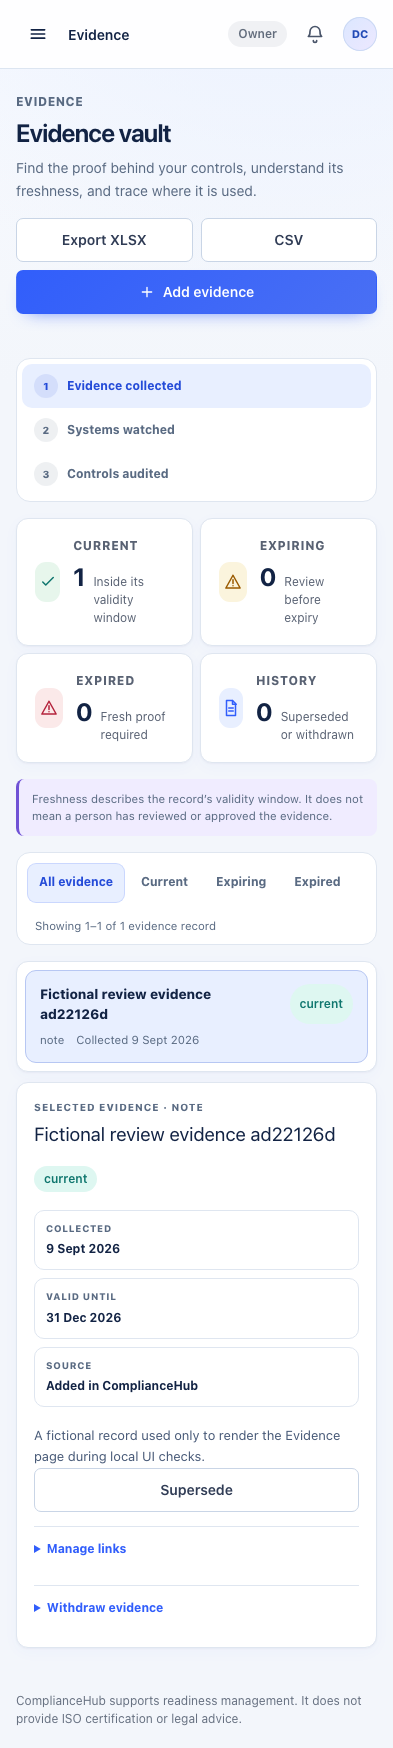
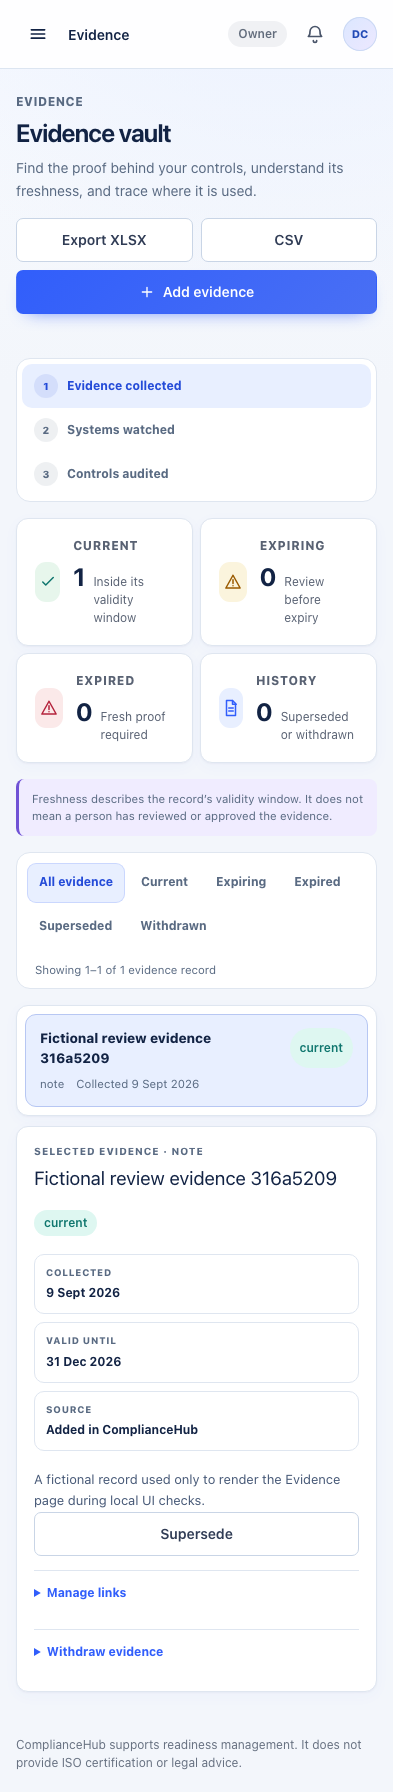
Finalize evidence vault verification

diff --git a/docs/release-checklist.md b/docs/release-checklist.md
@@ -2,7 +2,7 @@
 
 ## Start here — plain-language project status
 
-**Latest proof-to-audit Evidence vault refinement — 10 September 2026:** Evidence now works as a focused list-and-detail vault with truthful date-aware freshness, safe filters and pagination, complete source and linked-work context, and a responsive Evidence → Monitoring → Audits journey. Official GitHub evidence keeps its trusted provenance inside the normal evidence record; legacy records keep available references without pretending their collection identity is known. Adding evidence shows only the relevant source field, stale replacement links fail safely, and withdrawing requires a deliberate second step while preserving history. Focused unit and database tests, type checking, lint, production build, the full connected browser workflow, and desktop/tablet/phone accessibility and containment checks pass. [Before/after explanation, screenshots and verification](evidence/2026-09-10-proof-to-audit-evidence-vault.md). Application source `830e2eb` is pushed; the exact background runtime identity is rechecked after this evidence note is committed. This completes the Evidence-vault increment. Audits and Monitoring remain the next visual-design increments; hosted release, live-provider verification, screen-reader acceptance and human stakeholder acceptance remain separate.
+**Latest proof-to-audit Evidence vault refinement — 11 September 2026:** Evidence now works as a focused list-and-detail vault with truthful date-aware freshness, safe filters and pagination, complete source and linked-work context, and a responsive Evidence → Monitoring → Audits journey. Official GitHub evidence keeps its trusted provenance inside the normal evidence record; legacy records keep available references without pretending their collection identity is known. Adding evidence shows only the relevant required source field, stale replacement or maintenance requests fail safely, and withdrawing requires a deliberate second step while preserving history. Focused unit and database tests, type checking, lint, production build, the full connected browser workflow, and desktop/tablet/phone accessibility and containment checks pass. [Before/after explanation, screenshots and verification](evidence/2026-09-10-proof-to-audit-evidence-vault.md). Application source `37b86ec` is pushed and its immutable production package is running at http://127.0.0.1:3300/app/evidence with matching app/database health. This completes the Evidence-vault increment. Audits and Monitoring remain the next visual-design increments; hosted release, live-provider verification, screen-reader acceptance and human stakeholder acceptance remain separate.
 
 **Latest expressive dashboard and shared visual foundation — 10 September 2026:** The programme dashboard now uses the approved stronger colour, hierarchy, graphical summaries and restrained hover/reveal motion while keeping every number tied to existing records. The saved-baseline route is explained as `Programme basis` beside the control position instead of competing in the page header. Shared navigation, buttons, cards, forms, tables, status labels and phone touch targets now use one semantic visual foundation; no unsupported trend, comparison, team chart or search was invented. Full unit, lint, type and production-build checks pass. Dashboard visual/accessibility/behavior checks pass at 1440px, 883px and 390px, the representative authenticated workspace suite passes, and independent specification/standards reviews have had their material findings resolved. [Before/after explanation, mock-up, screenshots and verification](evidence/2026-09-10-expressive-dashboard-visual-foundation.md). Application source `03bf777` is pushed, and its immutable production package is running at http://127.0.0.1:3300/app with matching app/database health. This completes the dashboard visual-foundation increment; page-specific refinement across the remaining product, hosted release, live-provider verification, screen-reader acceptance and human stakeholder acceptance remain separate.
 

diff --git a/docs/evidence/2026-09-10-proof-to-audit-evidence-vault.md b/docs/evidence/2026-09-10-proof-to-audit-evidence-vault.md
@@ -29,9 +29,9 @@ All records shown in these screenshots are fictional local test data created for
 
 ## Fresh verification
 
-Verified on 10 September 2026 in the isolated local ComplianceHub worktree against fictional local Supabase data:
+Verified on 10–11 September 2026 in the isolated local ComplianceHub worktree against fictional local Supabase data:
 
-- focused Evidence and baseline logic: 14 files and 53 tests passed;
+- focused Evidence and baseline logic: 14 files and 55 tests passed;
 - evidence schema and evidence-to-audit database behavior: 2 files and 16 pgTAP tests passed;
 - TypeScript checking passed;
 - lint passed;
@@ -46,7 +46,7 @@ These checks prove the implemented code, local production build, fictional local
 
 ## Running preview and source identity
 
-Application source `830e2eb` is pushed to the existing `codex/team-baseline` branch. Its immutable production package is the source intended for the background preview at http://127.0.0.1:3300/app/evidence. The final background health and exact release identity are rechecked after this evidence note is committed.
+Application source `37b86ec` is pushed to the existing `codex/team-baseline` branch. Its immutable production package is running in the background at http://127.0.0.1:3300/app/evidence. Fresh health reports both application and database `ok` with the exact release identity `37b86ec0c41c410cbba7d59a98854698901174ba`. The full connected journey and final responsive browser suite pass against this package.
 
 ## Architecture boundary
 
